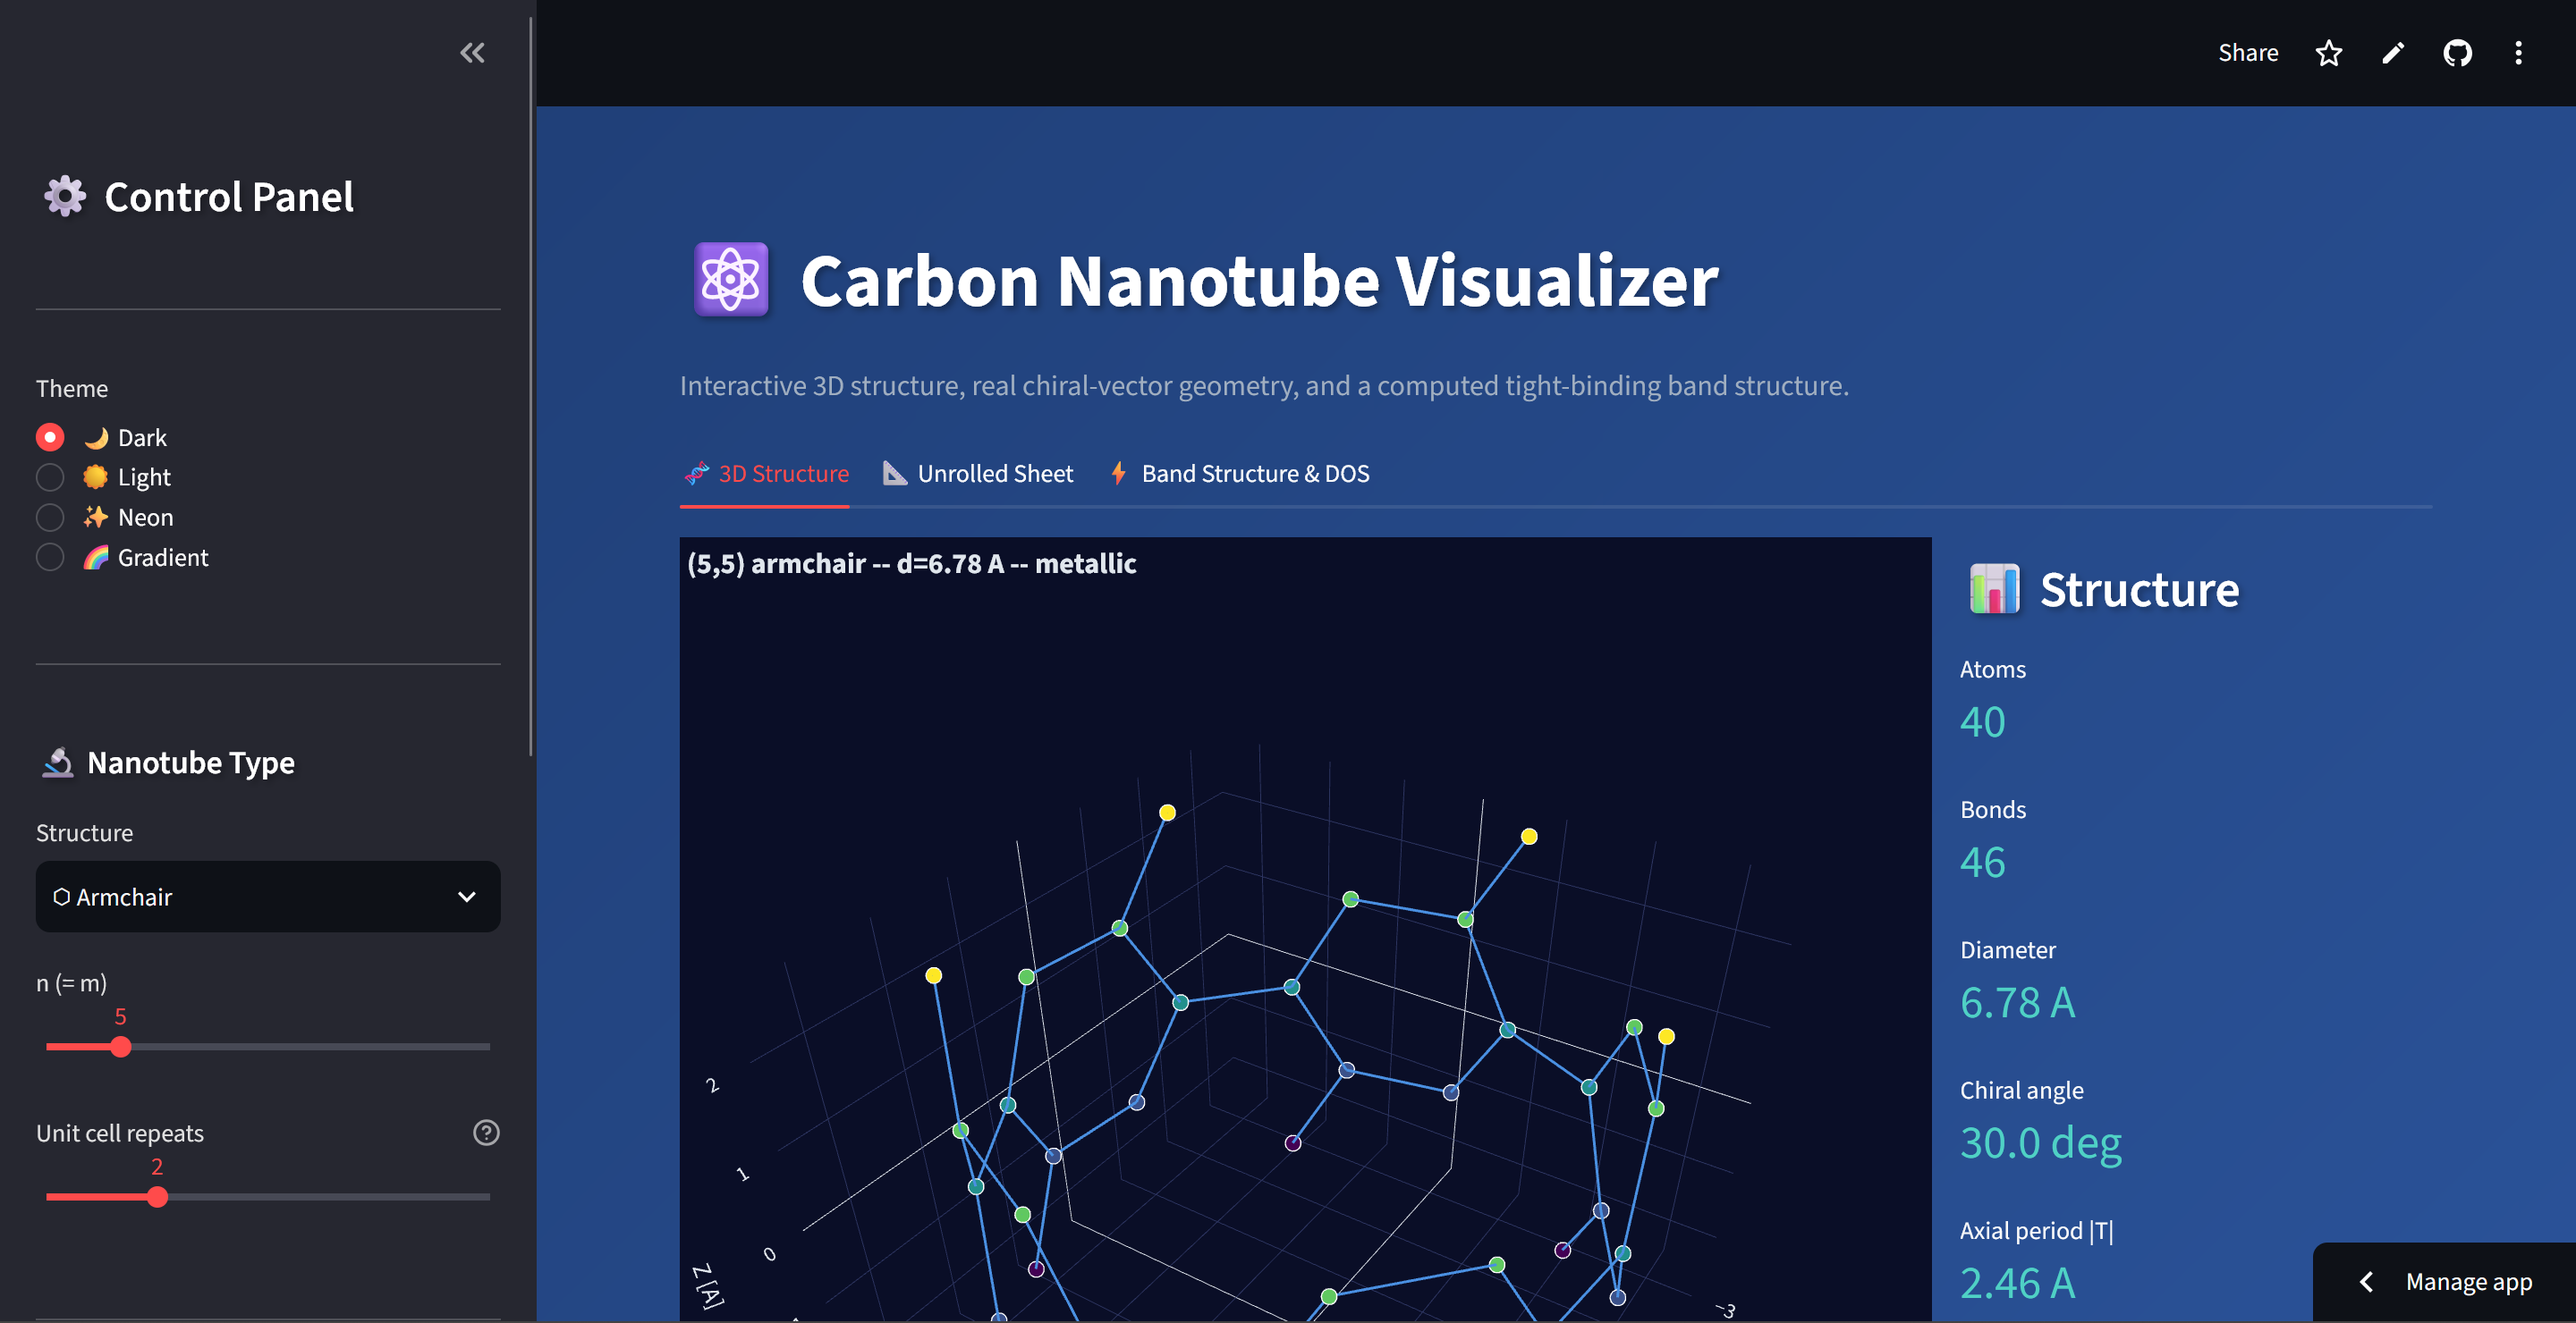
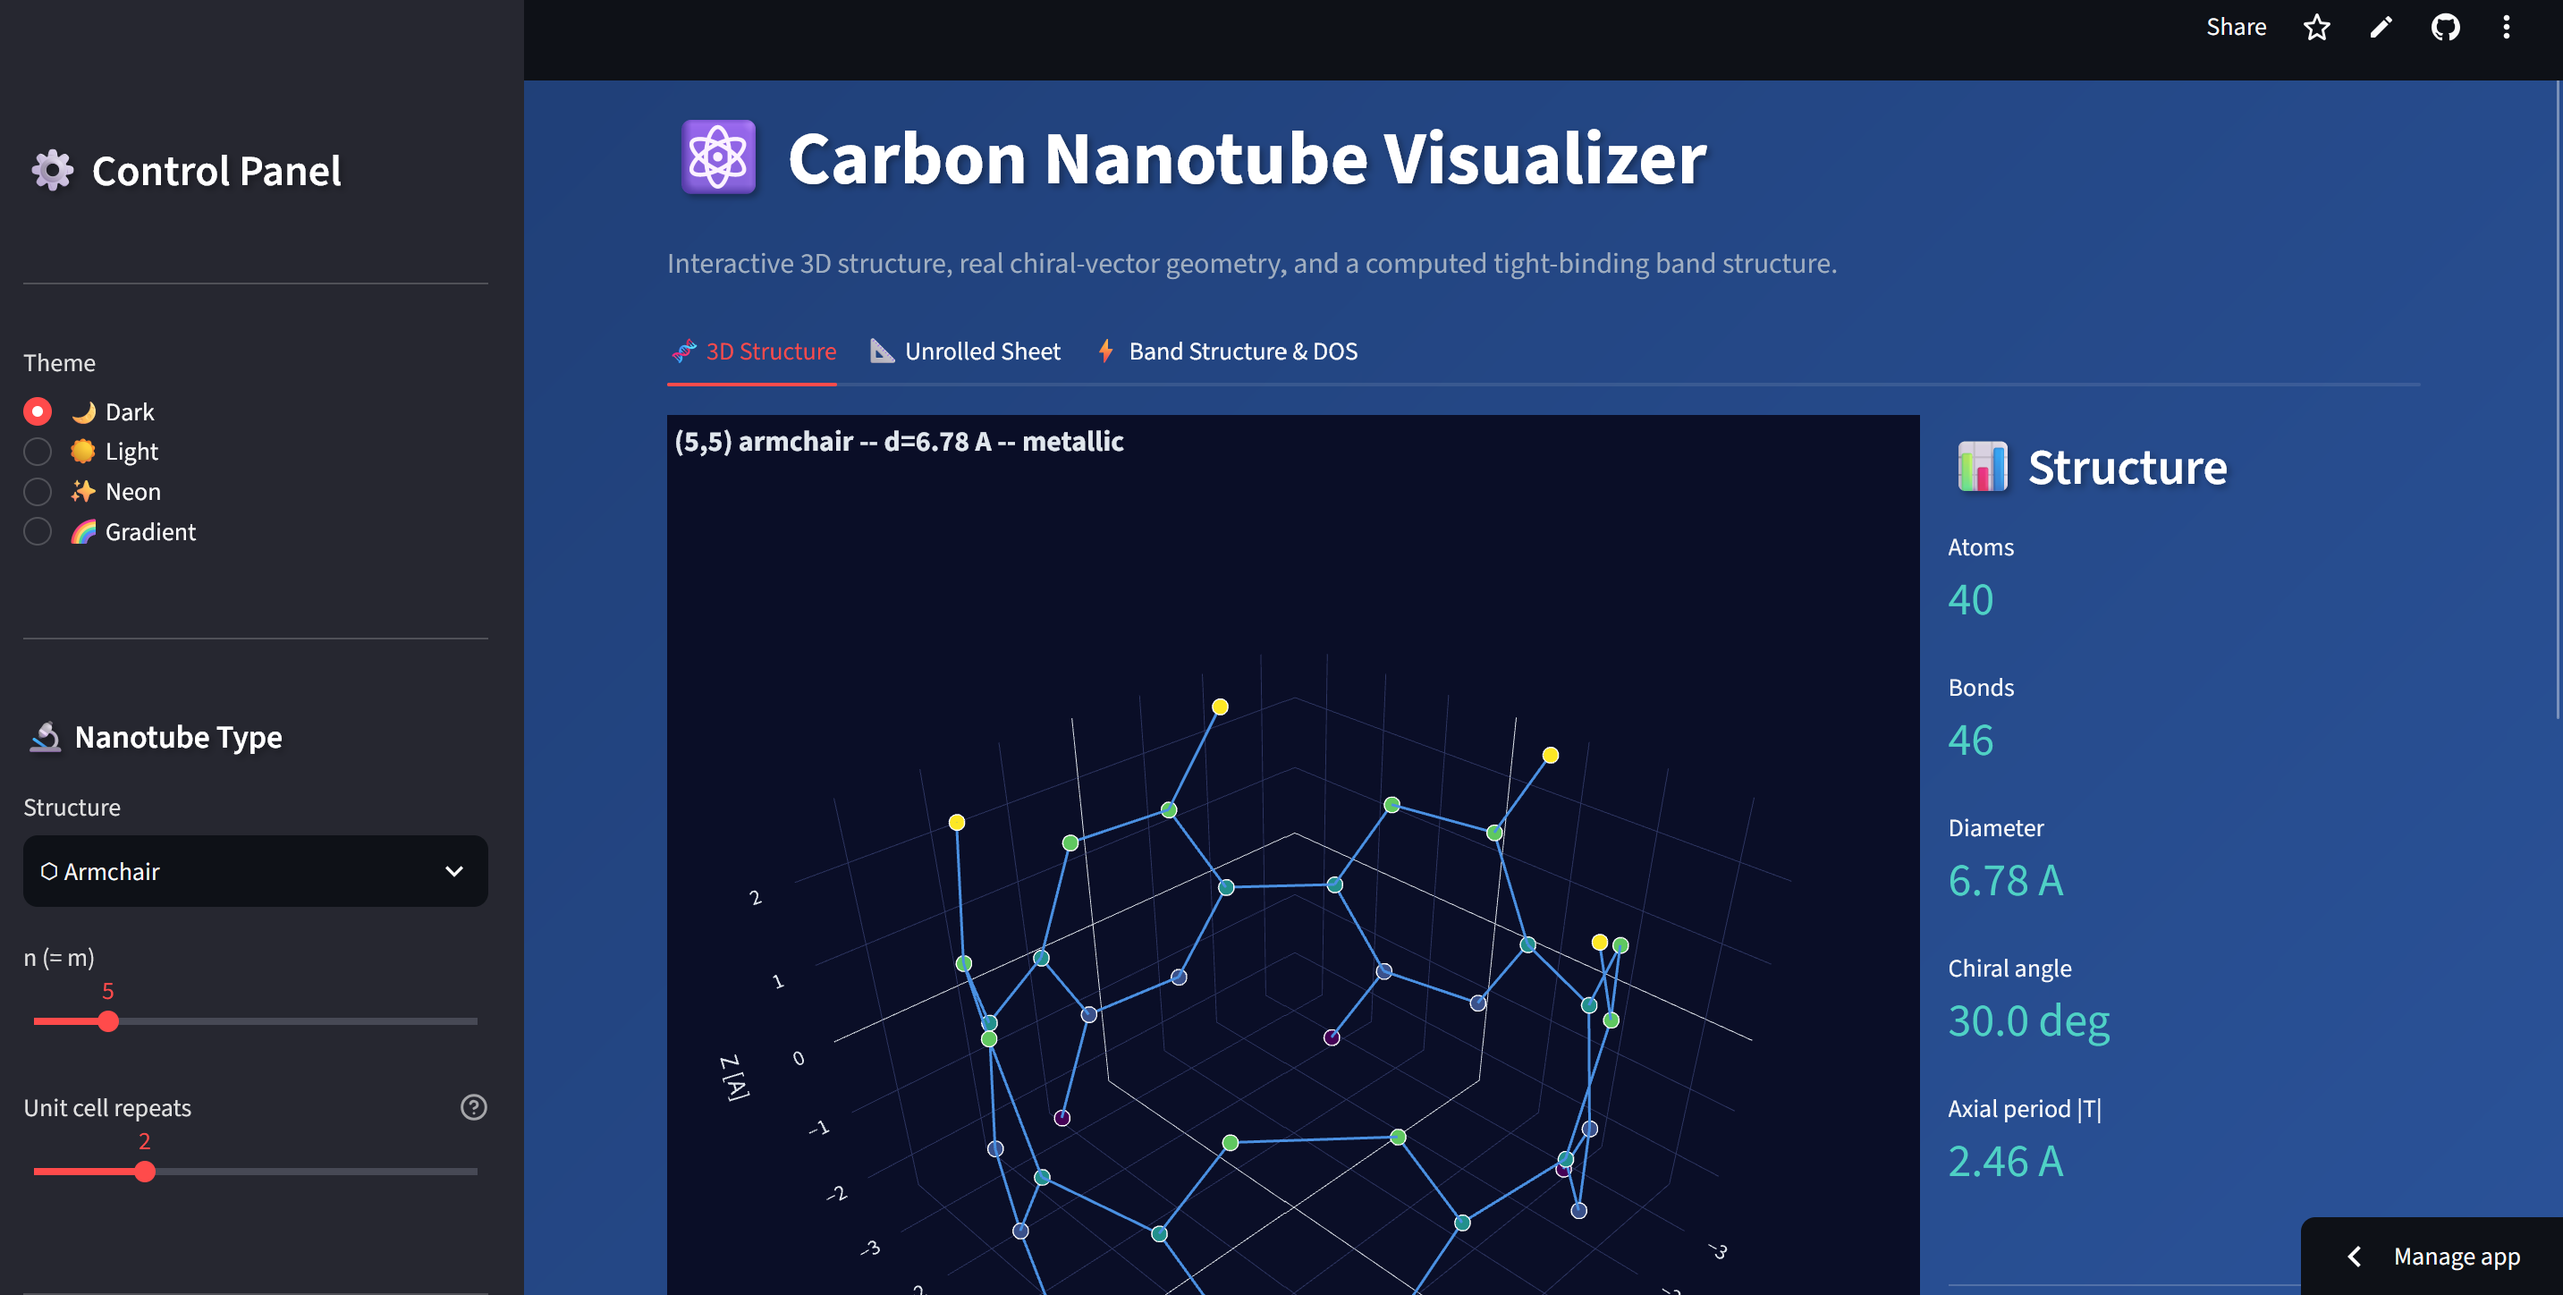
Move Carbon Nanotube Visualizer to a new Other Projects section, refresh screenshots and links
- Move the project out of Cheminformatics & Scientific ML into a new
  "Other Projects" section (nav + homepage) — the niche physics content
  has near-zero general IT-recruiter appeal on its own merits
- Update live-demo link to the new carbon-nanotube-visualizer.streamlit.app
  URL (the old nanotubes.streamlit.app app was deleted as part of the
  repo rename/redeploy)
- Replace the hero screenshot with a fresh capture of the redeployed app,
  and add a second screenshot of the Band Structure & DOS tab next to
  the electronic-structure section

diff --git a/docs/carbon-nanotube-visualizer/index.md b/docs/carbon-nanotube-visualizer/index.md
@@ -1,8 +1,8 @@
 # ⚛ Carbon Nanotube Visualizer
 
-🚀 **Live Demo:** <a href="https://nanotubes.streamlit.app/" target="_blank">nanotubes.streamlit.app</a>
+🚀 **Live Demo:** <a href="https://carbon-nanotube-visualizer.streamlit.app/" target="_blank">carbon-nanotube-visualizer.streamlit.app</a>
 
-![Interactive 3D view of a (5,5) armchair carbon nanotube in the app](carbon-nanotube-visualizer.png)
+![Interactive 3D view of a (5,5) armchair carbon nanotube, with the computed structure panel (atoms, bonds, diameter, chiral angle, axial period)](carbon-nanotube-visualizer.png)
 
 ## 🎯 Project Goal
 
@@ -54,6 +54,8 @@ the chiral and translation vectors), and the resulting bands and density of
 states are plotted directly. The computed gap was validated against 10
 diverse (n, m) pairs, including armchair tubes — a case where a naively
 memorized "compact" gap formula turns out to give the wrong answer.
+
+![Computed band structure and density of states for a (5,5) armchair tube, correctly showing zero gap (metallic), with the numerical k-grid residual labeled as a resolution artifact rather than a real gap](band-structure-dos.png)
 
 ### 3. Interactive 3D rendering with real physical context
 

diff --git a/docs/index.md b/docs/index.md
@@ -25,10 +25,12 @@ In this portfolio, you'll find selected projects showcasing that mix of scientif
 * [🧪 Buchwald-Hartwig C-N Coupling Optimizer (RDKit · XGBoost)](06_reaction_opt/index.md)
 * [💊 Drug Solubility Predictor (RDKit · scikit-learn)](05_drug_solub/index.md)
 * [🧬 logP Predictor (PyTorch)](07_logP Predictor/index.md)
-* [⛓ Carbon Nanotube Visualizer (Plotly · ASE · Streamlit)](carbon-nanotube-visualizer/index.md)
 
 ## 📚 Older Projects
 * [🌈 Raman Spectroscopy Analyzer (SciPy · LMFIT)](04_raman/index.md)
+
+## 🔧 Other Projects
+* [⛓ Carbon Nanotube Visualizer (Plotly · ASE · Streamlit)](carbon-nanotube-visualizer/index.md)
 
 ## About Me
 
